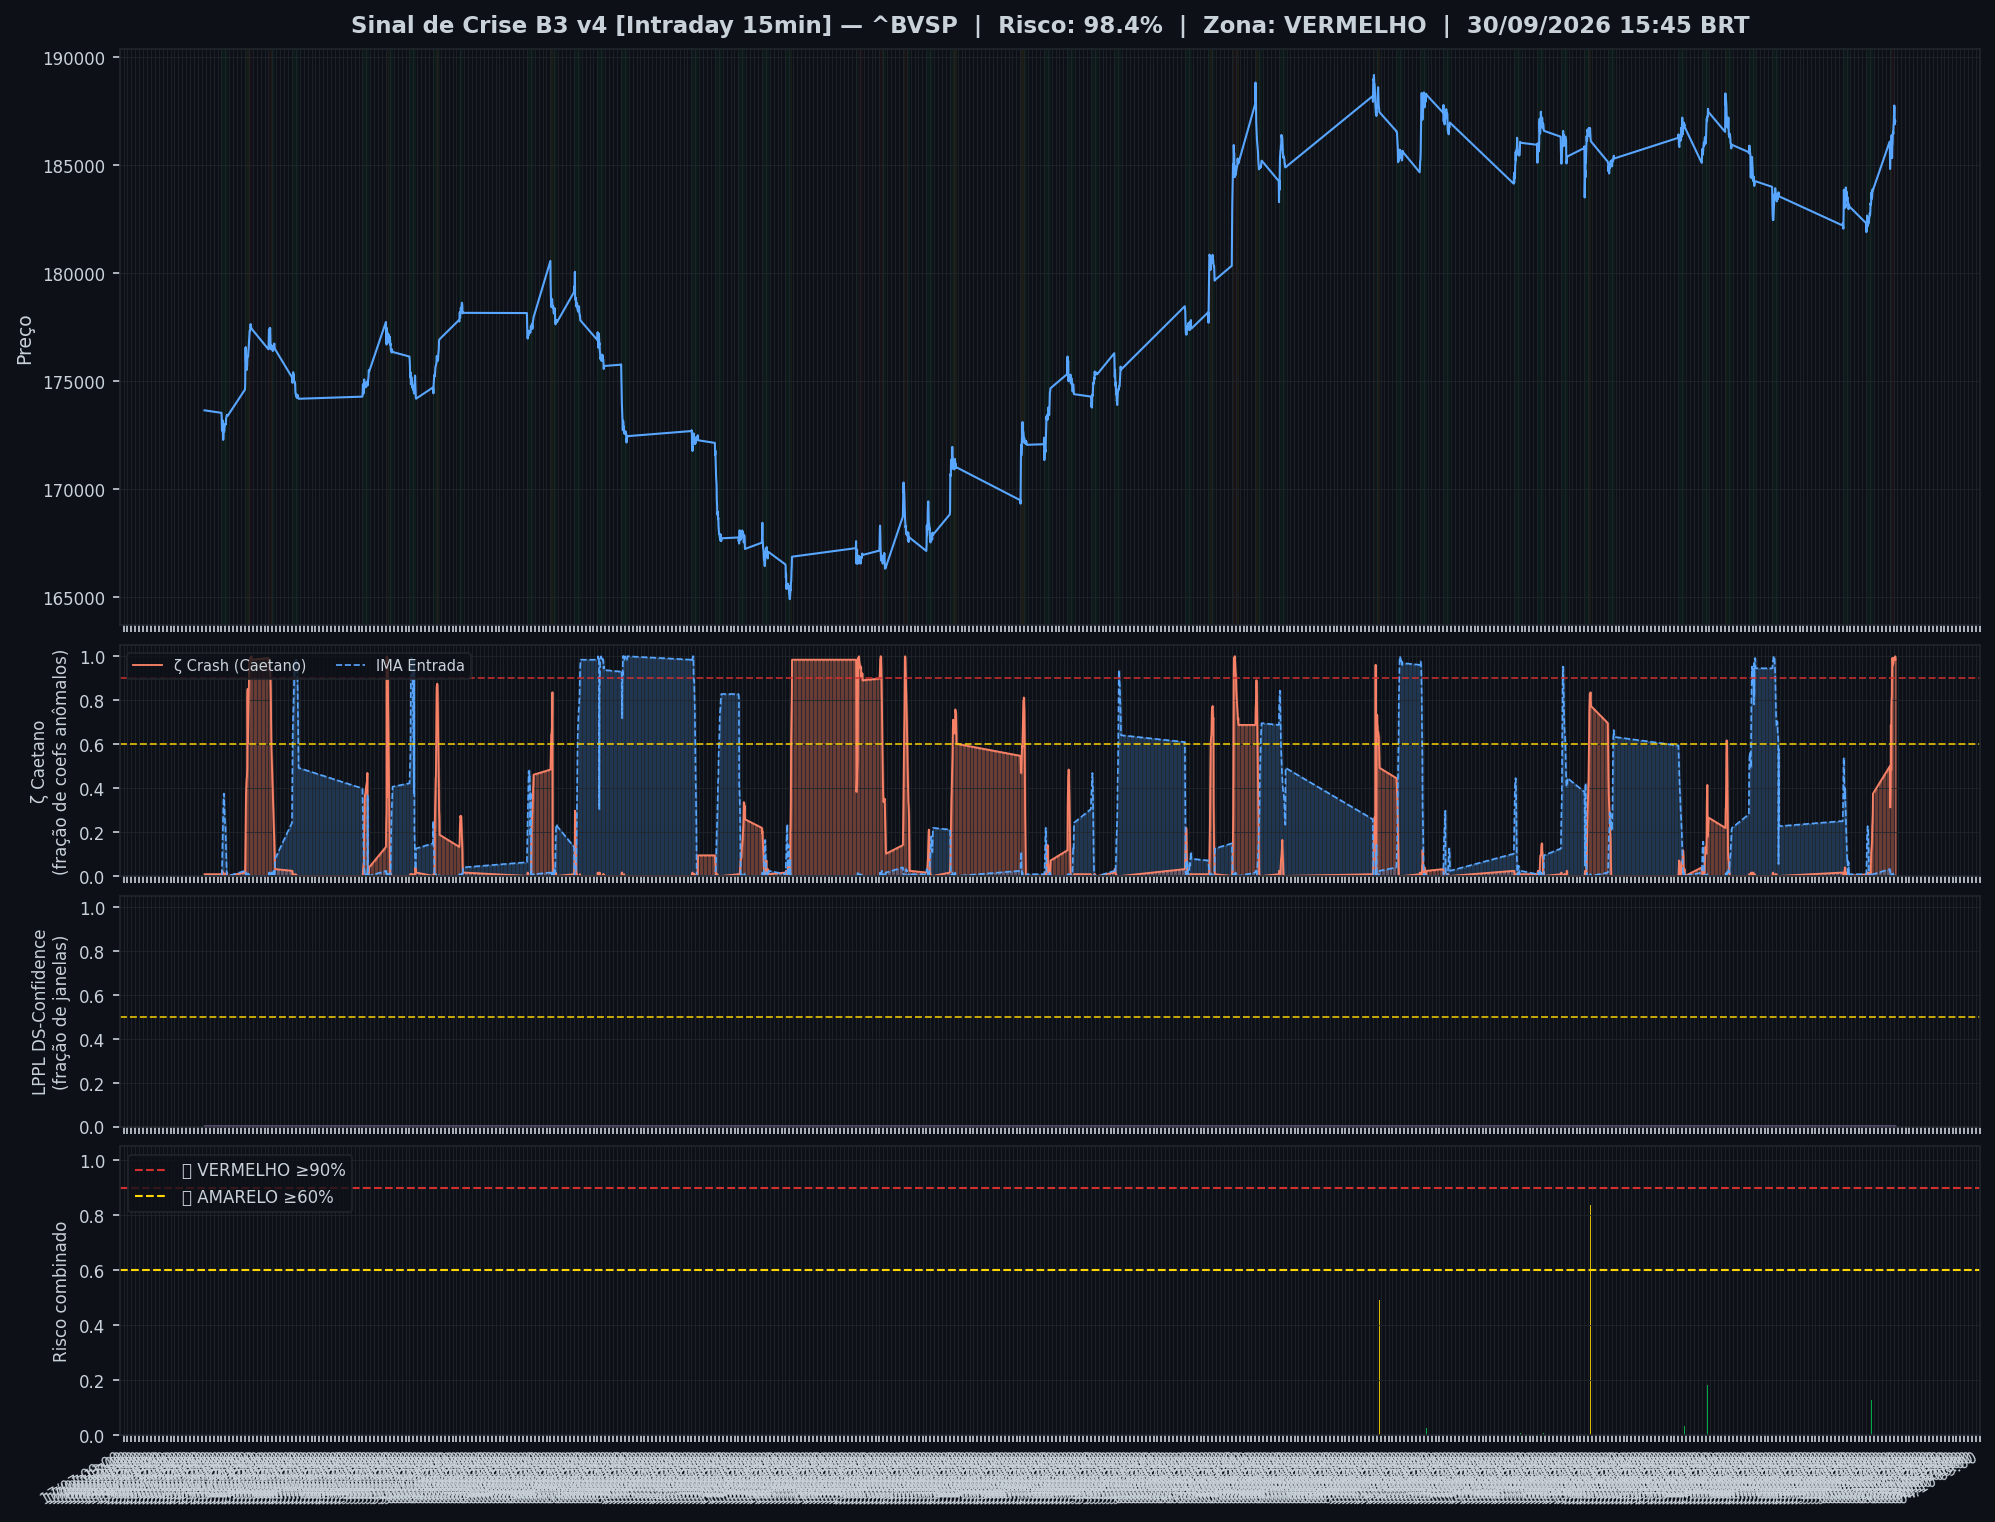
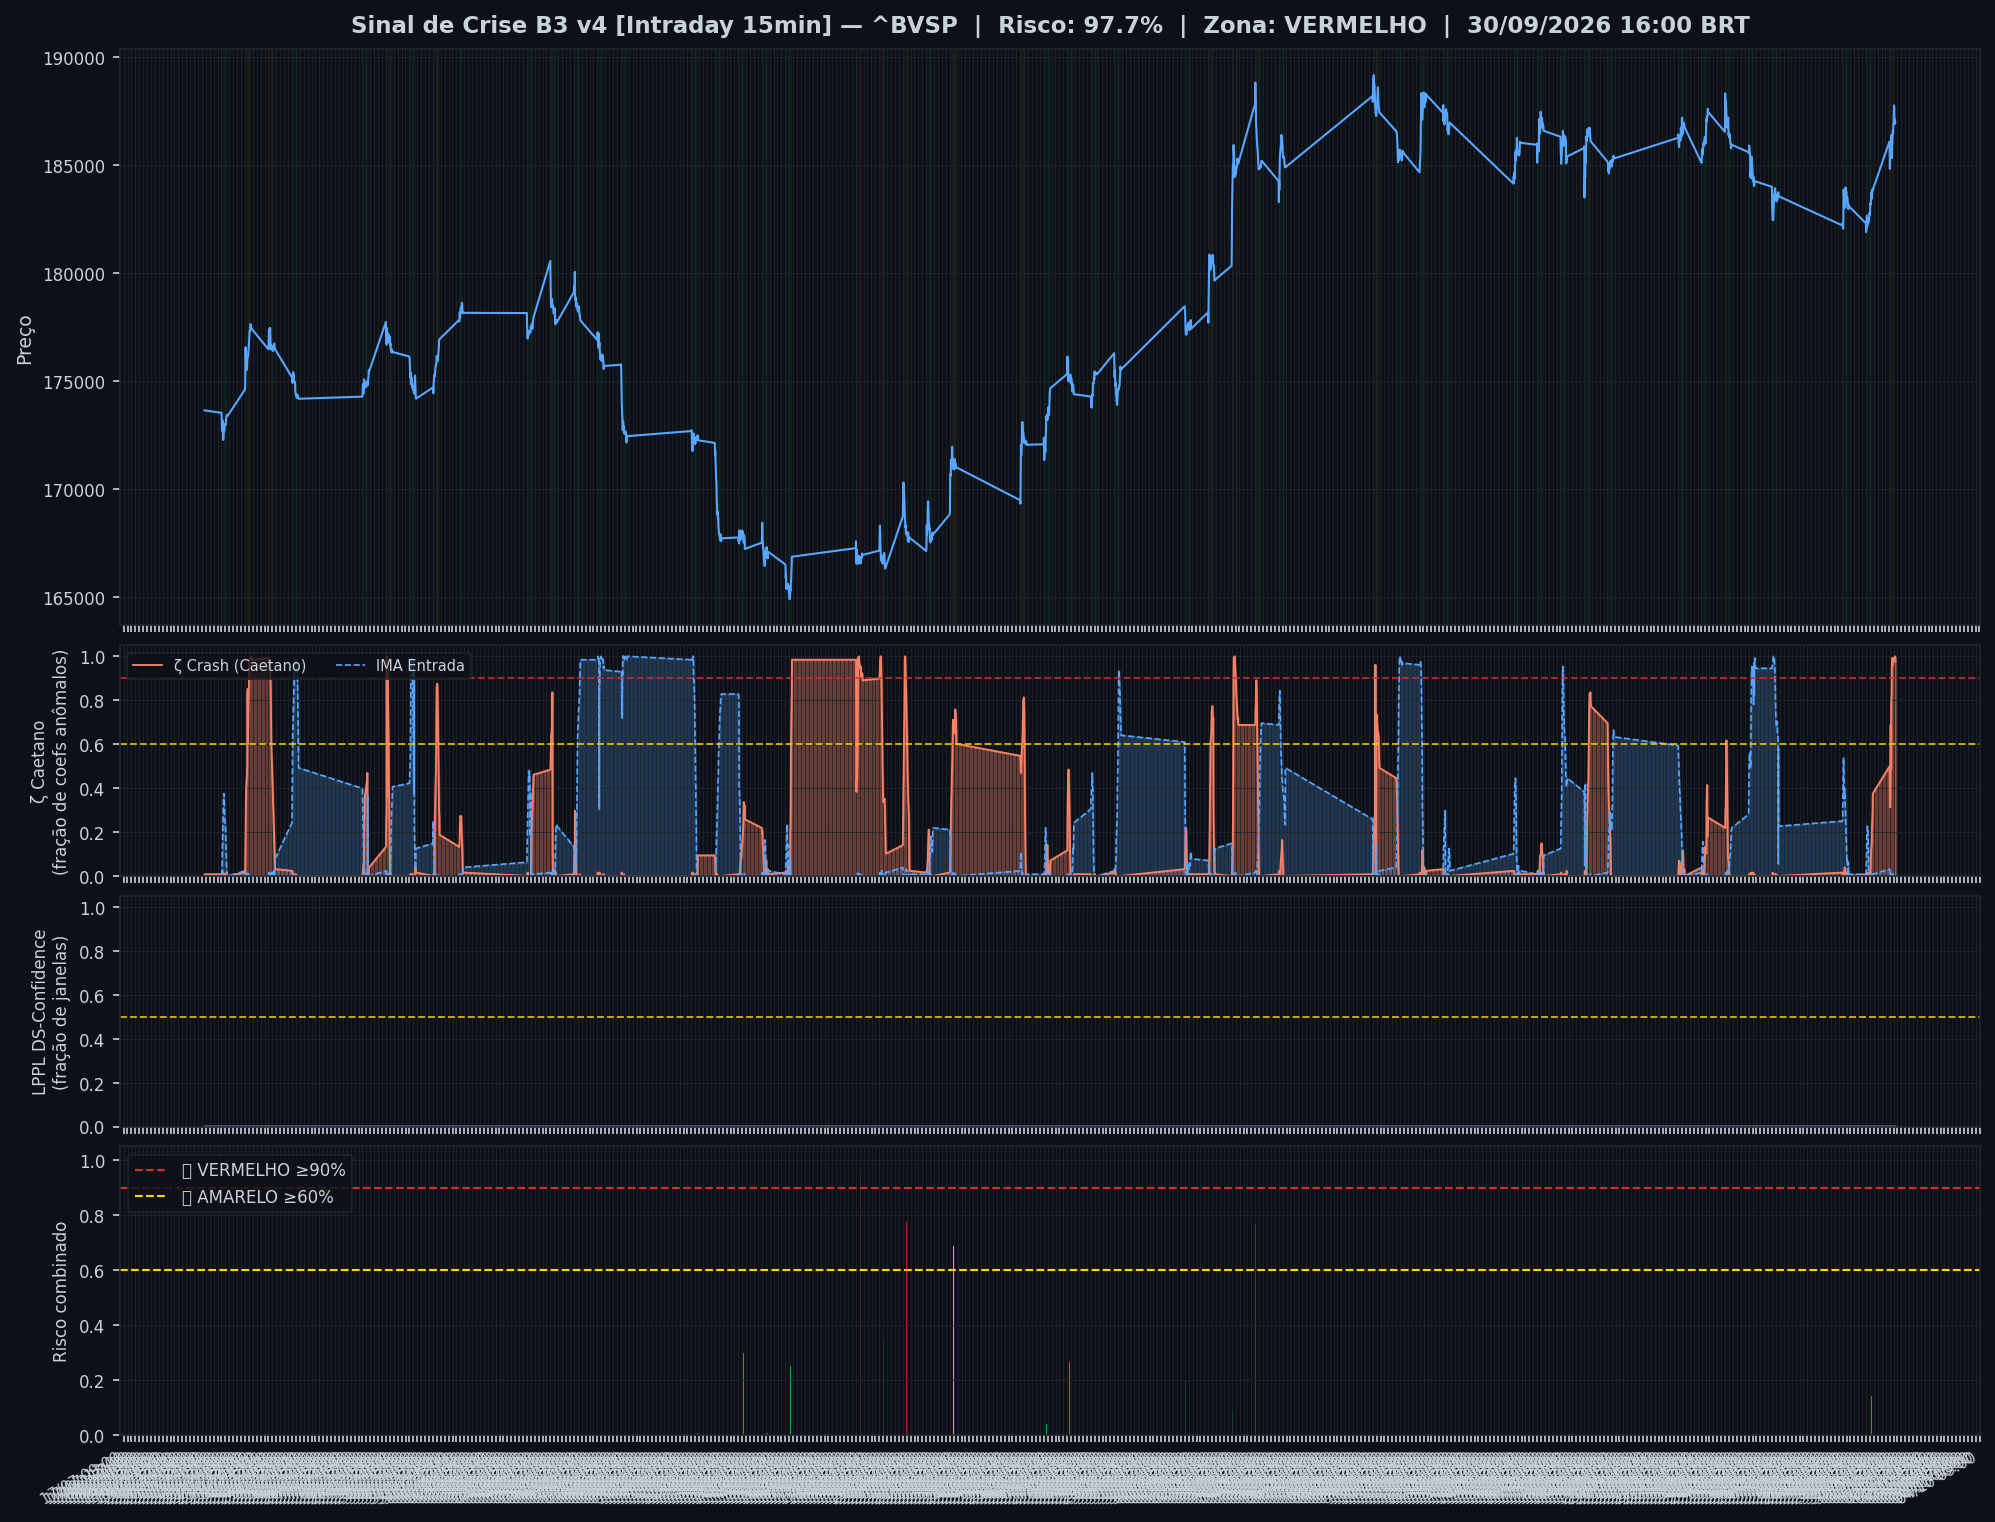
🤖 Auto: Sinal 30/09/2026 16:45

diff --git a/content/intraday/2026-09-30.md b/content/intraday/2026-09-30.md
@@ -1,10 +1,10 @@
 ---
-title: "🔴 Intraday 30/09/2026 15:45 BRT — VERMELHO"
+title: "🔴 Intraday 30/09/2026 16:00 BRT — VERMELHO"
 date: 2026-09-30
 tags: [intraday]
 ---
 
-> [!danger] 🔴 **VERMELHO** — Risco 98% · ▼ -2 p.p. vs leitura anterior
+> [!danger] 🔴 **VERMELHO** — Risco 98% · ▼ -1 p.p. vs leitura anterior
 > `████████████████████`
 > ALERTA DE CRISE — padrão pré-crise detectado.
 
@@ -12,9 +12,9 @@ tags: [intraday]
 | Indicador | Valor |
 |---|---|
 | 🔴 ζ Crash — severidade da queda em curso | **98%** |
-| 🔵 ζ Entrada — estrutura de fundo | 0% |
+| 🔵 ζ Entrada — estrutura de fundo | 1% |
 | 🫧 LPPL DS-Confidence | 0% |
-| 📊 Ibovespa | 187.034 pts |
+| 📊 Ibovespa | 186.981 pts |
 
 ![Gráfico do sinal](../graficos/sinal_intraday.png)
 
@@ -22,6 +22,7 @@ tags: [intraday]
 
 | Data | Zona | Risco | IMA Crash | Entrada | LPPL |
 |---|---|---|---|---|---|
+| 2026-09-30 16:00 | 🔴 VERMELHO | **98%** | 98% | 1% | 0% |
 | 2026-09-30 15:45 | 🔴 VERMELHO | **98%** | 98% | 0% | 0% |
 | 2026-09-30 15:30 | 🔴 VERMELHO | **100%** | 100% | 0% | 0% |
 | 2026-09-30 15:15 | 🔴 VERMELHO | **99%** | 99% | 0% | 0% |
@@ -51,7 +52,6 @@ tags: [intraday]
 | 2026-09-29 16:15 | 🟢 VERDE | **25%** | 25% | 0% | 0% |
 | 2026-09-29 16:00 | 🟢 VERDE | **23%** | 23% | 0% | 0% |
 | 2026-09-29 15:45 | 🟢 VERDE | **16%** | 16% | 0% | 0% |
-| 2026-09-29 15:30 | 🟢 VERDE | **14%** | 14% | 0% | 0% |
 
 ## Monitor Multi-Ativo
 
@@ -59,35 +59,35 @@ tags: [intraday]
 
 | Zona | Ativo | Setor | IMA Crash | IMA Entrada |
 |---|---|---|---|---|
-| 🟢 | **USD/BRL** | Câmbio | 20.3% | 0.0% |
-| 🟢 | **VALE** | Mineração | 0.8% | 0.0% |
-| 🟢 | **ITAUUNIBANCO** | Financeiro | 0.8% | 0.0% |
-| 🟢 | **PETROBRAS** | Petróleo | 0.8% | 0.0% |
-| 🟢 | **PETROBRAS** | Petróleo | 0.8% | 0.0% |
-| 🟢 | **AXIA ENERGIA** | Energia | 0.8% | 0.0% |
-| 🟢 | **SABESP** | Saneamento | 0.8% | 0.0% |
-| 🟢 | **BRADESCO** | Financeiro | 0.8% | 0.0% |
-| 🟢 | **B3** | Financeiro | 0.8% | 0.0% |
-| 🟢 | **ITAUSA** | Financeiro | 0.8% | 0.0% |
-| 🟢 | **BTGP BANCO** | Financeiro | 0.8% | 0.0% |
-| 🟢 | **WEG** | Industrial | 0.8% | 0.0% |
-| 🟢 | **EMBRAER** | Outros | 0.8% | 0.0% |
-| 🟢 | **BRASIL** | Financeiro | 0.8% | 0.0% |
-| 🟢 | **AMBEV S/A** | Consumo | 0.8% | 0.0% |
+| 🟢 | **USD/BRL** | Câmbio | 50.0% | 0.8% |
+| 🟢 | **VALE** | Mineração | 20.3% | 0.0% |
+| 🟢 | **ITAUUNIBANCO** | Financeiro | 20.3% | 0.0% |
+| 🟢 | **PETROBRAS** | Petróleo | 20.3% | 0.0% |
+| 🟢 | **PETROBRAS** | Petróleo | 20.3% | 0.0% |
+| 🟢 | **AXIA ENERGIA** | Energia | 20.3% | 0.0% |
+| 🟢 | **SABESP** | Saneamento | 20.3% | 0.0% |
+| 🟢 | **BRADESCO** | Financeiro | 20.3% | 0.0% |
+| 🟢 | **B3** | Financeiro | 20.3% | 0.0% |
+| 🟢 | **ITAUSA** | Financeiro | 20.3% | 0.0% |
+| 🟢 | **BTGP BANCO** | Financeiro | 20.3% | 0.0% |
+| 🟢 | **WEG** | Industrial | 20.3% | 0.0% |
+| 🟢 | **EMBRAER** | Outros | 20.3% | 0.0% |
+| 🟢 | **BRASIL** | Financeiro | 20.3% | 0.0% |
+| 🟢 | **AMBEV S/A** | Consumo | 20.3% | 0.0% |
+| 🟢 | **EQUATORIAL** | Energia | 20.3% | 0.0% |
+| 🟢 | **COPEL** | Energia | 20.3% | 0.0% |
+| 🟢 | **PRIO** | Petróleo | 20.3% | 0.0% |
+| 🟢 | **VIBRA** | Energia | 20.3% | 0.0% |
+| 🟢 | **ULTRAPAR** | Outros | 20.3% | 0.0% |
+| 🟢 | **REDE D OR** | Saúde | 20.3% | 0.0% |
+| 🟢 | **LOCALIZA** | Aluguel | 20.3% | 0.0% |
+| 🟢 | **GERDAU** | Siderurgia | 20.3% | 0.0% |
+| 🟢 | **SUZANO S.A.** | Papel/Celulose | 20.3% | 0.0% |
 | 🟢 | **ENEVA** | Energia | 0.8% | 0.0% |
-| 🟢 | **EQUATORIAL** | Energia | 0.8% | 0.0% |
-| 🟢 | **COPEL** | Energia | 0.8% | 0.0% |
-| 🟢 | **PRIO** | Petróleo | 0.8% | 0.0% |
-| 🟢 | **VIBRA** | Energia | 0.8% | 0.0% |
-| 🟢 | **ULTRAPAR** | Outros | 0.8% | 0.0% |
-| 🟢 | **REDE D OR** | Saúde | 0.8% | 0.0% |
-| 🟢 | **LOCALIZA** | Aluguel | 0.8% | 0.0% |
-| 🟢 | **GERDAU** | Siderurgia | 0.8% | 0.0% |
-| 🟢 | **SUZANO S.A.** | Papel/Celulose | 0.8% | 0.0% |
 
 ![Monitor multi-ativo](../graficos/multi_intraday.png)
 
-*Página atualizada em 30/09/2026 16:30 BRT (leitura da barra de 2026-09-30 15:45 BRT).*
+*Página atualizada em 30/09/2026 16:45 BRT (leitura da barra de 2026-09-30 16:00 BRT).*
 
 > [!info]- Como interpretar (clique para expandir)
 > - **ζ Crash**: fração dos coeficientes wavelet acima do corte (Caetano & Yoneyama 2009). Escala absoluta: ζ=0,90 = 90% dos coeficientes anômalos — historicamente, quedas com ζ≥0,90 foram mais fundas e mais longas. **Mede a severidade do movimento em curso, não prevê o início da queda.**

diff --git a/content/index.md b/content/index.md
@@ -8,9 +8,9 @@ tags: [home]
 
 Monitoramento diário e intraday do Ibovespa — **IMA Wavelet** (Prof. Marco Antonio Leonel Caetano, ITA/INSPER) + **LPPL DS-Confidence** (Prof. Didier Sornette, ETH-Zurich).
 
-*Última atualização: 30/09/2026 16:30 BRT · ^BVSP · Intraday 15min · v4*
+*Última atualização: 30/09/2026 16:45 BRT · ^BVSP · Intraday 15min · v4*
 
-> [!danger] 🔴 **VERMELHO** — Risco 98% · ▼ -2 p.p. vs leitura anterior
+> [!danger] 🔴 **VERMELHO** — Risco 98% · ▼ -1 p.p. vs leitura anterior
 > `████████████████████`
 > ALERTA DE CRISE — padrão pré-crise detectado.
 
@@ -18,9 +18,9 @@ Monitoramento diário e intraday do Ibovespa — **IMA Wavelet** (Prof. Marco An
 | Indicador | Valor |
 |---|---|
 | 🔴 ζ Crash — severidade da queda em curso | **98%** |
-| 🔵 ζ Entrada — estrutura de fundo | 0% |
+| 🔵 ζ Entrada — estrutura de fundo | 1% |
 | 🫧 LPPL DS-Confidence | 0% |
-| 📊 Ibovespa | 187.034 pts |
+| 📊 Ibovespa | 186.981 pts |
 
 **Multi-ativo:** 0% em tensão (0🔴 0🟡 de 25 ativos)
 

diff --git a/content/historico.md b/content/historico.md
@@ -7,6 +7,7 @@ tags: [historico]
 
 | Data | Modo | Zona | Risco | IMA | LPPL |
 |---|---|---|---|---|---|
+| 2026-09-30 16:00 | intraday | 🔴 VERMELHO | 98% | 98% | 0% |
 | 2026-09-30 15:45 | intraday | 🔴 VERMELHO | 98% | 98% | 0% |
 | 2026-09-30 15:30 | intraday | 🔴 VERMELHO | 100% | 100% | 0% |
 | 2026-09-30 15:15 | intraday | 🔴 VERMELHO | 99% | 99% | 0% |
